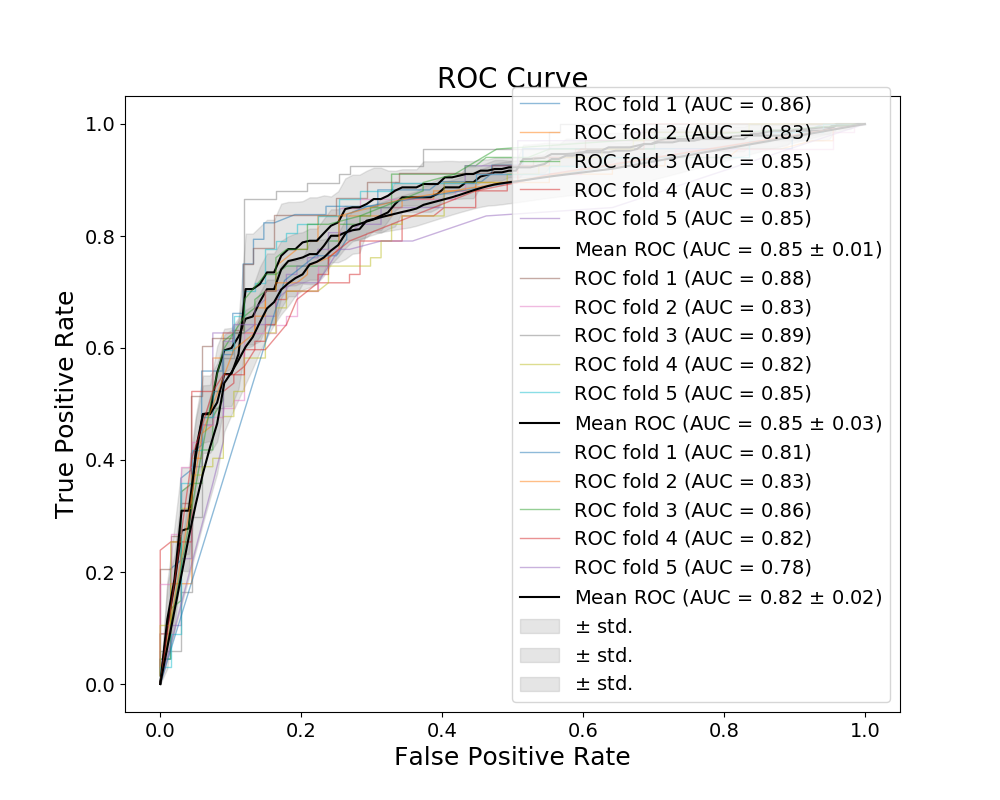
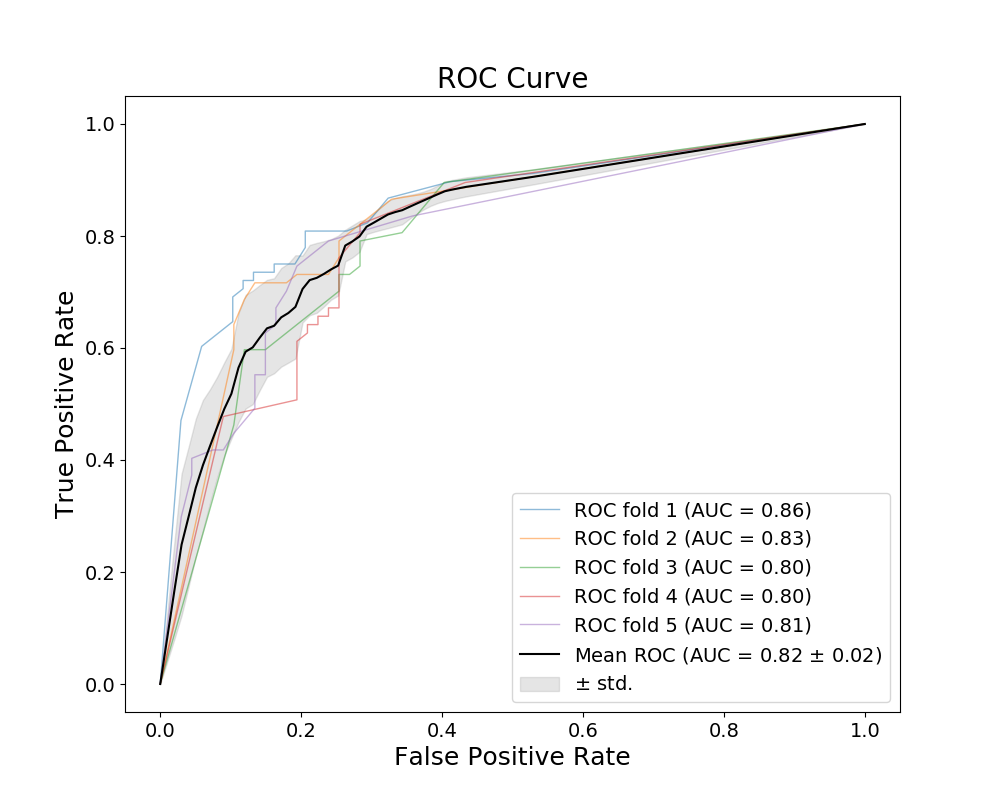
Original Dataset Run

diff --git a/src/main.py b/src/main.py
@@ -47,8 +47,8 @@ if __name__ == '__main__':
     seed = 2018
     folds = 5 
     hofp_size = 10
-    method = ['rf', 'svm']
-
+    method = ['gp-rf', 'gp-svm', 'gp', 'svm', 'rf']
+    figure = 0
     reps = 5
     
     # import data
@@ -132,8 +132,9 @@ if __name__ == '__main__':
                 tprs.append(tp)
                 fprs.append(fp)
 
-            auc_scores[r, :] = utils.calc_auc(fprs, tprs, r, plot_roc=True)
+            auc_scores[r, :] = utils.calc_auc(fprs, tprs, figure, plot_roc=True)
             plt.savefig(r"./results/images/OriginalDataset/" + method[n] + "-AUC" + "_reps" + str(r))
+            figure += 1
             print('-'*75)
         
         utils.csv_save(method[n], auc_scores)
